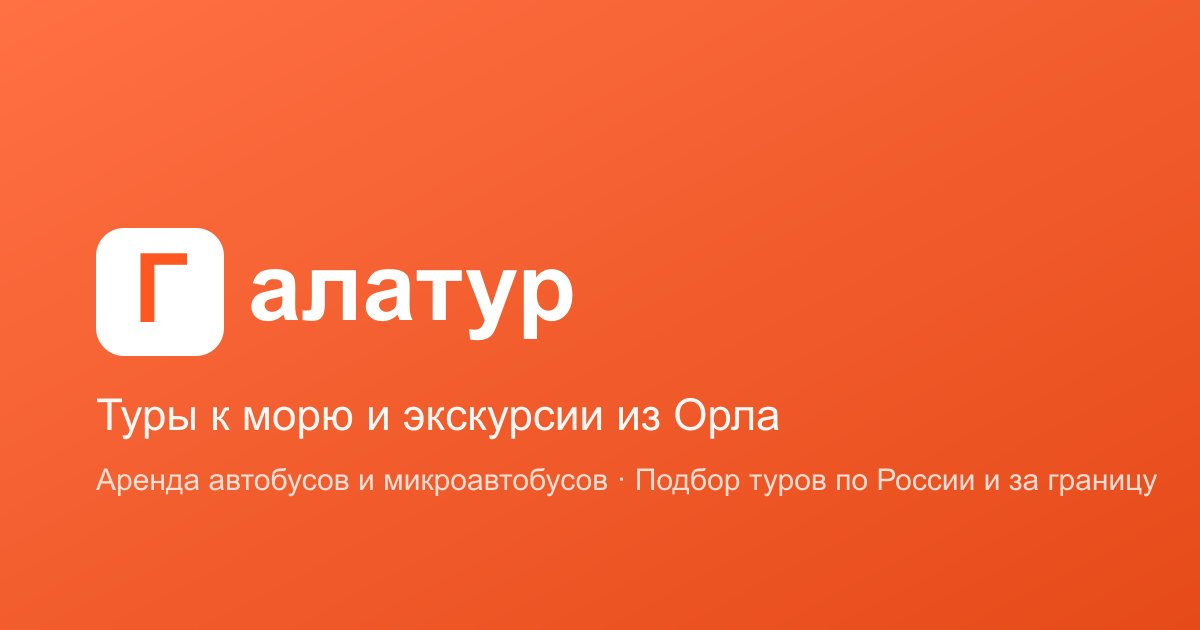
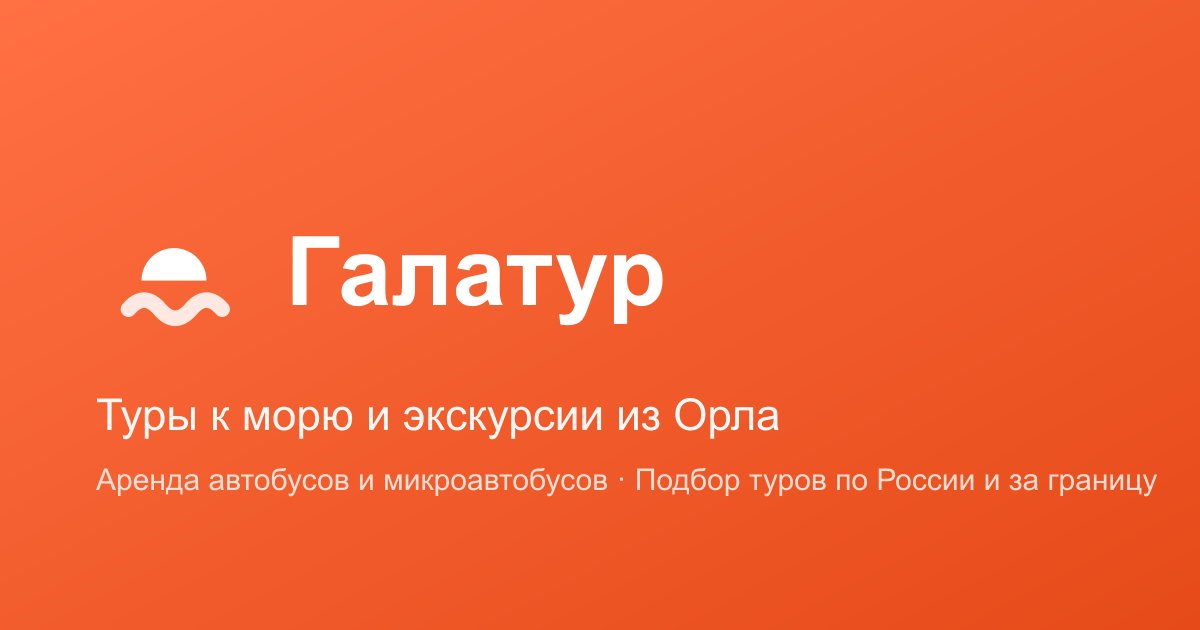
[IMP-028]: новый логотип «солнце над волной» — компонент SharedLogoBaseLogo в шапке и футере, новые фавиконки и og-image

Changed region(s): [[0.0617, 0.3619, 0.555, 0.573]]

diff --git a/src/shared/ui/logo/BaseLogo.vue b/src/shared/ui/logo/BaseLogo.vue
@@ -1,0 +1,42 @@
+<script setup lang="ts">
+interface IProps {
+	size?: number;
+	withWordmark?: boolean;
+}
+
+withDefaults(defineProps<IProps>(), {
+	size: 32,
+	withWordmark: true
+});
+</script>
+
+<template>
+	<span class="inline-flex items-center gap-2">
+		<svg
+			:width="size"
+			:height="size"
+			viewBox="0 0 120 120"
+			fill="none"
+			xmlns="http://www.w3.org/2000/svg"
+			class="shrink-0 transition-transform duration-300 group-hover:rotate-6"
+			aria-hidden="true"
+		>
+			<path
+				d="M35 62 a25 25 0 0 1 50 0 z"
+				class="fill-primary-500"
+			/>
+			<path
+				d="M25 84 q12 -14 24 0 t24 0 t24 0"
+				fill="none"
+				class="stroke-secondary-600"
+				stroke-width="12"
+				stroke-linecap="round"
+			/>
+		</svg>
+		<span
+			v-if="withWordmark"
+			class="text-lg font-semibold tracking-tight"
+			>Галатур</span
+		>
+	</span>
+</template>

diff --git a/src/widgets/footer/ui/TheFooter.vue b/src/widgets/footer/ui/TheFooter.vue
@@ -12,16 +12,8 @@ const fullYear: number = new Date().getFullYear();
 			class="mx-auto grid w-full max-w-[1200px] gap-10 px-6 py-12 sm:grid-cols-2 lg:grid-cols-4"
 		>
 			<div>
-				<div class="mb-4 flex items-center gap-1">
-					<span
-						class="bg-primary-500 flex size-8 items-center justify-center rounded-lg text-lg font-bold text-white"
-						>Г</span
-					>
-					<span
-						class="text-lg font-semibold tracking-tight"
-						itemprop="name"
-						>алатур</span
-					>
+				<div class="mb-4">
+					<SharedLogoBaseLogo itemprop="name" />
 				</div>
 				<p
 					class="typo-small max-w-[28ch] text-neutral-500"

diff --git a/src/widgets/header/ui/TheHeader.vue b/src/widgets/header/ui/TheHeader.vue
@@ -39,13 +39,9 @@ const contactOpen = ref(false);
 		>
 			<NuxtLink
 				:to="{ name: 'index' }"
-				class="group flex items-baseline gap-1"
+				class="group flex items-center"
 			>
-				<span
-					class="bg-primary-500 flex size-8 items-center justify-center rounded-lg text-lg font-bold text-white transition-transform duration-300 group-hover:rotate-6"
-					>Г</span
-				>
-				<span class="text-lg font-semibold tracking-tight">алатур</span>
+				<SharedLogoBaseLogo />
 			</NuxtLink>
 			<nav class="hidden items-center gap-7 lg:flex">
 				<NuxtLink
